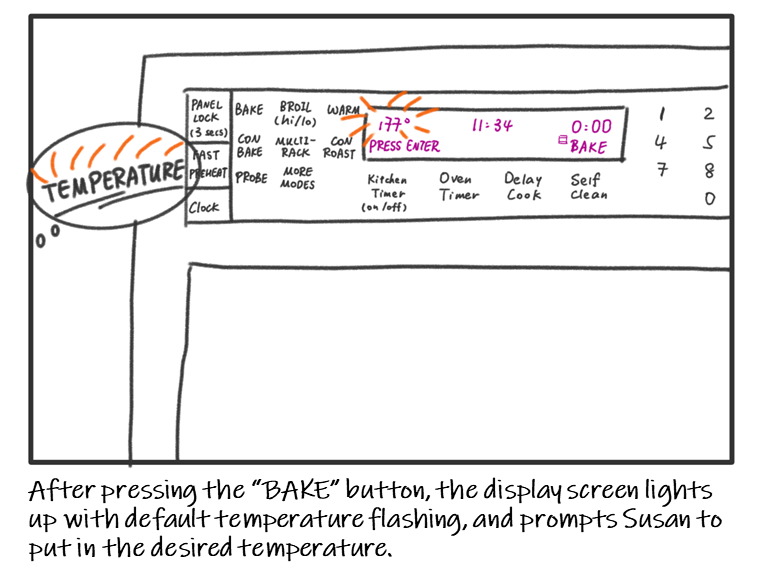
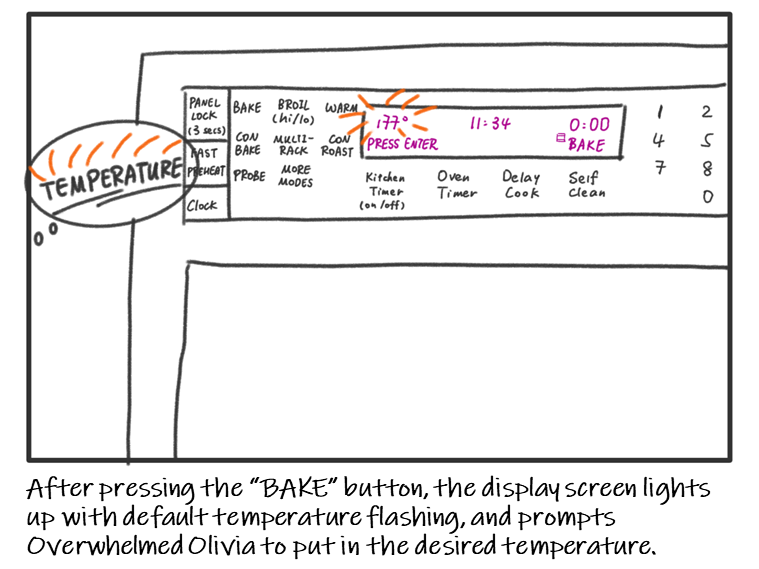
finalized

Changed region(s): [[0.0303, 0.0, 0.9697, 0.8067], [0.0303, 0.8366, 0.9697, 0.9859], [0.2121, 0.6274, 0.2424, 0.8067]]

diff --git a/home.html b/home.html
@@ -13,28 +13,31 @@
     <main>
     <h1 class="accent">Project Oven</h1>
     <h2 class="display-6">Personas and Storyboarding of an Authentic Oven</h2>
-    <p class="lead"> <strong>
+    <p class="lead intro"> <strong>
         Project Oven's main objective is to step into a user's shoes. Based on first-hand observations of real 
-        users interacting with an interface and interviews about their experiences, personas are then created 
+        users interacting with the interface of an oven and interviews about their experiences, personas are created 
         and storyboard is used to illustrate the user experience for one particular persona.</strong>
     </p>
 
     <div class="section">
       <div class="section-head">
-      <h2 style="text-align: center; white-space: pre-wrap;">Preparation</h2>
+      <h2 style="text-align: center; white-space: pre-wrap;">Overview</h2>
       <p>
-        The oven interface (i.e., the oven control panel) interacts with the users and allows them to cook food with their 
-        desired specifications such as cooking mode, temperature and time. Its key components include cooking modes 
-        touchpads which let users select different cooking modes; a display screen which visually prompts and shows 
-        users’ input of cooking specifications; numeric touchpads for users to put in numbers; basic feature buttons 
-        including panel lock, fast preheat, clock, oven light, settings and oven clear/off; and other features including 
-        kitchen timer, oven timer, delay cook and self-clean. Users need to conduct a series of actions on the control 
-        panel to input all the required cooking specifications and get the oven to work. 
-      </p>
+        Oven is one of the most commonly used home appliances. The oven interface (i.e., the control panel) interacts with the users and 
+        allows them to cook food with their desired specifications. Its key components include the following:</p>
+        <ol>
+          <li>cooking modes touchpads which let users select different cooking modes</li>
+          <li>a display screen which visually prompts and shows users’ input of cooking specifications</li>
+          <li>numeric touchpads for users to put in numbers</li>
+          <li>feature buttons such as oven timer, oven light, oven clear/off, etc.</li>
+        </ol> 
+      <p> Users need to conduct a series of actions on the control panel to input all the required cooking specifications and get the 
+        oven to work. The figure below shows the exact Bosch oven I have at home. </p>
       </div>
       
       <img class="oven" src="images/interface.JPG" alt="annotated oven interface">
-      <p><strong>To understand different users' experience with the oven interface, the following list of interview questions are to be asked:</strong></p> 
+      <p class="font-weight-bold">I then wonder: How does each user's experience differ? Is this oven designed for everyone? I decided to figure this out 
+        and asked three unique users the following questions:</p> 
       <ol>
         <li>What was your first impression of this interface?</li>
         <li>Which aspects of this interface are in line with your expectations? Which ones are not?</li>
@@ -57,7 +60,7 @@
     <div class="section">
       <div class="section-head">
         <h2 style="text-align: center; white-space: pre-wrap;">Observations</h2>
-        <p>The three users observed were Susan, Richard and Yvonne. In general, all three users took pauses at some point in using the 
+        <p>I approached Susan, Richard and Yvonne and observed how they interact with the oven interface. In general, all of them took pauses at some point in using the 
           interface. They all somewhat referred back to the display screen after completing an action and reacted to the beep sounds. Unlike Susan 
           who did not hesitate when starting the oven, Richard observed the entire interface and Yvonne looked at the different cooking modes. 
           However, Susan had to restart because she lost track of what she was trying to do and accidentally hit “Oven Clear/Off”. Among the three, 
@@ -67,7 +70,7 @@
       </div>
       <div class="row pt-3 row justify-content-center">
         <div class="col-12 col-lg-4 pb-3">
-          <div class="card">
+          <div class="card h-100">
             <div class="card-header">
               <h3>User #1: Susan</h3>
             </div>
@@ -75,17 +78,17 @@
               <div class="card-text">
               
                 <p><b>Description:</b> Susan is currently 52 years old and mother of the household. She is an experienced cook and 
-                  baker who prepares all three meals and snacks for her family almost every day. Susan represents the middle-aged or 
-                  senior members in households who interact with the oven frequently to prepare a variety of dishes. </p> 
+                  baker who prepares all three meals for her family almost every day. Susan represents the middle-aged or 
+                  senior members in households who interact with the oven frequently to prepare different dishes. </p> 
                 
                 <p><b>Observations:</b></p>
                   <ol>
-                    <li> Susan first pressed the cooking mode “Bake” without any hesitation. The display screen 
-                      then shows “177 degrees Celsius” flashing on the top left corner, “PREE ENTER” on the bottom 
-                      left corner and “BAKE” on the bottom right corner.</li>
+                    <li>Susan first pressed the cooking mode “Bake” without any hesitation. The display screen 
+                      then shows “177 degrees Celsius” flashing on the top left corner, “PRESS ENTER” on the bottom 
+                      left and “BAKE” on the bottom right.</li>
                     
-                    <li>She then hesitated and stared at the temperature. Her fingers moved in the air for a 
-                      few seconds and pressed “Bake” again and then “Oven Clear/Off”.</li>
+                    <li>She then hesitated and stared at the display. Her fingers moved in the air for a 
+                      few seconds and pressed “Bake” again, followed by “Oven Clear/Off”.</li>
                     
                     <li>Realizing that she had turned off the oven, Susan restarted by pressing “Bake” and paused to observe 
                       the display screen. She then put in “180 degree Celsius” and hit “Enter” to start preheating.</li>
@@ -108,22 +111,20 @@
               <div class="card-text">
               
                 <p><b>Description:</b> 
-                  Richard is currently 52 years old and father of the household. He seldom cooks or bakes and usually watches another person to use the oven. 
-                  Richard represents the middle-aged or senior members in households who interact with the oven only once in a while 
-                  and do not have much experience with the oven.</p> 
+                  Richard is currently 52 years old and father of the household. He seldom cooks or bakes and usually watches another person to use 
+                  the oven. Richard represents the middle-aged or senior members in households who interact with the oven only once in a while 
+                  and have little experience with it.</p> 
                 
                 <p><b>Observations:</b><p>
                   <ol>
                     <li>Richard observed the interface from the left to right for 15-20 seconds and then pressed the cooking mode “Bake”. 
-                      Once the display screen responded by showing a flashing default temperature of “177 degree Celsius”, Richard paused again 
-                      and looked at the display screen. </li>
+                      Once the display screen lit up, Richard paused again and looked at it closely. </li>
                     
-                    <li>Richard then put in “200 degree Celsius” and hit “Enter”. He paused again, skimming through 
-                      the display screen and recognized that the progress bar for “preheating” was shown on the display. </li>
+                    <li>Richard noticed the flashing temperature and put in “200 degree Celsius” and hit “Enter”. He paused again, skimming through 
+                      the display screen and recognized the the progress bar for “preheating”. </li>
                     
-                    <li>After preheating was done, Richard put the raw steak onto the racks and closed the oven door. He paused again and 
-                      searched on the interface. His finger first stopped on top of kitchen timer and then switched to oven timer, eventually 
-                      pressing the latter and putting in “50 minutes”, followed by “Enter”. </li>
+                    <li>After preheating was done, Richard put the steak onto the racks. He paused again and searched on the interface. His finger 
+                      first stopped on top of kitchen timer and then switched to oven timer, eventually pressing the latter and putting in “50 minutes” and “Enter”. </li>
                     
                     <li>Richard came back and hit "Oven Clear/Off" when the oven beeped to inform the completion of baking.</li>
                   </ol>
@@ -140,7 +141,7 @@
             <div class="card-body">
               <div class="card-text">
               
-                <p><b>Description:</b> Yvonne is currently an 18-year old high school student in her senior year. She usually uses the oven to 
+                <p><b>Description:</b> Yvonne is currently an 18-year old high school student. She usually uses the oven to 
                   bake sweet stuffs such as bread and cookies, and likes to experiment with different cooking modes. She represents young 
                   people who use the oven for fun in their spare time and are interested in trying new recipes. </p> 
                 
@@ -154,7 +155,7 @@
                     
                     <li>Yvonne put two trays of cookies onto two separate racks and pressed “Oven timer” without hesitation. She 
                       input “30 minutes” quickly, hit “Enter” and double checked carefully if the display screen was showing her inputs correctly. 
-                      Afterwards, she turned on the “Oven Light” to see the cookies in the oven. </li>
+                      She then turned on the “Oven Light” to check on her cookies. </li>
 
                     <li>Yvonne came back when the oven beeped to inform the completion of baking. She took out the baking trays and
                         hit "Oven Clear/Off".</li>
@@ -169,35 +170,35 @@
     <div class="section">
       <div class="section-head">
         <h2 style="text-align: center; white-space: pre-wrap;">Interview Responses</h2>
-        <p> All three users mention that the many different buttons on the interface are hard to understand 
-          and confused them initially to some extent. They all think that there is some to considerable amount of difficulty in 
-          learning how to use this interface. All of their user experience has been improved since their first time using the interface; 
+        <p> I then sat down and interviewed each user. Susan, Richard and Yvonne all mention that the different buttons on the interface are hard to understand 
+          and confused them initially. They all think that there is some to considerable amount of difficulty in 
+          learning how to use this interface. All of their experiences have been improved since their first time using the interface; 
           however, Richard particularly dislikes the current setup of the interface and thinks it is fairly ineffective, giving a rating of 5. 
-          Unlike Yvonne, Susan and Richard do not change the procedure by which they follow and only use one cooking mode on the interface. All of the users like 
-          some type of sound to help them evaluate whether they have done things correctly and would refer to the display screen in using the 
+          Unlike Yvonne, Susan and Richard do not change their step-by-step procedure and only have used one cooking mode. All of them like 
+          the beep sound which helps them evaluate whether they have done things correctly and would refer to the display screen in using the 
           interface. 
         </p>
       </div>
      
       <div class="row pt-3 row justify-content-center">
         <div class="col-12 col-lg-4 pb-3">
-          <div class="card">
+          <div class="card h-100">
             <div class="card-header">
               <h3>User #1: Susan</h3>
             </div>
             <div class="card-body">
               <div class="card-text">
               
-                <p>At first sight, Susan thinks that the interface is very “hard to understand” and shows “too many words”. 
-                  Though the functions on the interface align with her expectations, the impacts of her actions are “mostly different from 
-                  what she expects”. She did not get the oven to work and felt “confused” when using it for the first time and ended up 
-                  asking for someone else’s help. She feels more familiar with using this interface now but “sometimes needs to clear all previous 
-                  actions and start over”.</p> 
-                <p>Susan uses this oven 3-4 times per week but has only used the mode “Bake” regardless of the type of food she is cooking. 
-                  She follows the same procedure: “Bake” => set temperature => “enter” to start preheating; after preheating is done, 
-                  “oven timer” => set time” => “enter”. Susan likes the modern design and the beep sound at the press of a button but does 
-                  not like the “overwhelming number of buttons”. </p>
-                <p>Susan would like to see "different functions being separated more clearly and presented in a way that is easier to memorize". She suggests that “icons and figures can perhaps replace the words”. She rates her first-time experience as 2 and recent 
+                <p>At first sight, Susan thinks that the interface is very <strong>“hard to understand”</strong> and shows <strong>“too many words”</strong>. 
+                  Though the functions on the interface align with her expectations, the impacts of her actions are <strong>“mostly different from 
+                  what she expects”</strong>. She did not get the oven to work and felt <strong>“confused”</strong> when using it for the first time and ended up 
+                  asking for someone else’s help. She feels more familiar with using this interface now but <strong>“sometimes needs to start over”</strong>.</p> 
+                <p>Susan uses this oven 3-4 times per week but has only used the mode “Bake” regardless of the type of food. 
+                  She follows the same procedure: <strong>“Bake” => set temperature => “Enter” to start preheating; after preheating is done, 
+                  “Oven timer” => set time” => “Enter”</strong>. Susan likes the modern design and the beep sound at the press of a button but does 
+                  not like the <strong>“overwhelming number of buttons”</strong>. </p>
+                <p>Susan would like to see <strong>"different functions being separated more clearly and presented in a way that is easier to memorize"</strong>. 
+                  She suggests that <strong>“icons and figures can perhaps replace the words”</strong>. She rates her first-time experience as 2 and recent 
                   experiences as 7. She also rates the difficulty of learning the interface as 7 and the effectiveness of the interface as 6. She recalls the memory of feeling puzzled and 
                   ending up calling a friend when using the interface for the first time. </p>
               </div>
@@ -213,19 +214,19 @@
             <div class="card-body">
               <div class="card-text">
               
-                <p>Richard’s first impression of the interface is that it gives a sense of “high-end and advanced technology” but has “dazzling 
-                  functions” which are “hard to understand”. The presentation of the interface is different from his expectations; he expects 
+                <p>Richard’s first impression of the interface is that it gives a sense of <strong>“high-end and advanced technology”</strong> but has 
+                  <strong>“dazzling functions which are hard to understand”</strong>. The <strong>presentation of the interface is different from his expectations</strong>; he expects 
                   to see the main icons to be different food types (i.e., meat, vegetables, bread) with one extra button to “customize”. He further 
-                  explains that once you select a food type, the display screen shall then direct you to select one of the possible cooking modes specific to this type of food. </p>
+                  explains that once you select a food type, the display screen shall then direct you to select one of the possible cooking modes specific to this food type. </p>
                   
-                <p>Richard’s first interaction with the interface was entirely under the guidance of someone else and felt that “the required 
-                  number of steps were more than he expected”. He now uses the oven once every two or three weeks and only uses the “Bake” mode. 
-                  Richard considers the other cooking modes as “redundant” and is confused about why there are both “kitchen timer” and “over timer”.</p>
+                <p>Richard’s first time using the interface was entirely under the guidance of someone else and felt that <strong>“the required 
+                  number of steps were more than he expected”</strong>. He uses the oven once every two or three weeks and only uses “Bake”. 
+                  Richard considers the other cooking modes as <strong>“redundant”</strong> and is <strong>confused about why there are both “kitchen timer” and “over timer”</strong>.</p>
                 
-                <p>Richard appreciates the beep sound and the display screen which shows the immediate result of user’s actions but wants 
-                  to redesign and reorganize the icons entirely. He rates his first-time experience as 4 and recent experiences as 7. He 
+                <p>Richard appreciates the beep sound and the display screen which shows the immediate result of his actions but wants 
+                  to redesign and reorganize the icons. He rates his first-time experience as 4 and recent experiences as 7. He 
                   also rates the difficulty of learning the interface as 6 and the effectiveness of the interface as 5. Richard remembers 
-                  the experience of feeling confused by “kitchen timer” and “oven timer” and having to think about which one to choose. </p> 
+                 feeling confused by “kitchen timer” and “oven timer” and having to think about which one to choose. </p> 
               
               </div>
             </div>
@@ -240,16 +241,16 @@
             <div class="card-body">
               <div class="card-text">
               
-                <p>Yvonne’s first impression of the interface is that “the writings on the interface are very small and the different 
-                  buttons take some time to go through”. The presentation of the interface aligns with her expectations, especially the 
-                  various cooking modes, numeric touchpads, display screen and oven timer. When she used the interface for the first time, she read the 
-                  instructions manual beforehand and learned about the different features. She thought the manual "gave clear explanations” and was able 
+                <p>Yvonne’s first impression of the interface is that <strong>“the writings on the interface are very small and the different 
+                  buttons take some time to go through”</strong>. <strong>The presentation of the interface aligns with her expectations</strong>, especially the 
+                  various cooking modes, numeric touchpads, display screen and oven timer. Before using the interface for the first time, she read the 
+                  instructions manual and learned about the different features. She thought the manual "gave clear explanations” and was able 
                   to figure out the correct way to use the interface. </p>
-                <p>Yvonne thinks that she is now “confident about using any feature on the interface”. She uses the oven once per week 
+                <p>Yvonne thinks that she is now <strong>“confident about using any feature on the interface”</strong>. She uses the oven once per week 
                   on weekends usually for baking sweet treats and enjoys trying out new recipes with the oven. She particularly appreciates the display 
-                  screen which shows her “the effect of her actions” and the “multiple buttons that have different cooking modes to choose from”.</p> 
-                <p>Yvonne says that she “cannot think about anything she dislikes off the top of her head”, but she would like to hear 
-                  a “different beep sound when she presses something incorrectly vs. correctly”. She rates her first-time experience as 6 and 
+                  screen which shows her <strong>“the effect of her actions”</strong> and the <strong>“multiple cooking modes to choose from”</strong>.</p> 
+                <p>Yvonne says that she <strong>“cannot think about anything she dislikes off the top of her head”</strong>, but she would like to hear 
+                  a <strong>“different beep sound when she has done something incorrectly vs. correctly”</strong>. She rates her first-time experience as 6 and 
                   recent experiences as 9. She also rates the difficulty of learning the interface as 4 and the effectiveness of the interface 
                   as 8. Yvonne does not recall a special memory associated with this interface. </p>
               </div>
@@ -262,13 +263,13 @@
     <div class="section">
       <div class="section-head">
         <h2 style="text-align: center; white-space: pre-wrap;">Personas</h2>
-        <p> Based on the three users I observed and interviewed, I have created the following two personas:
-          "Overwhelmed Susan" and "Inquisitive Ivan".</p>
+        <p> Based on the three users I observed and interviewed, I have created two personas represented by the empathy maps:
+          "Overwhelmed Olivia" and "Inquisitive Ivan".</p>
           <ol>
-            <li> "Overwhelmed Susan" is a 52 year-old mother of the household who prepare all three meals for her family every day.
-                  She uses the oven 3 or 4 times per week but still feels overwhelmed when she messes up with the steps to set up 
-                  the oven. The many different buttons on the interface confuse her and she would lose track of what to do next. 
-                  "Overwhelmed Susan" represents the group of users (usually middle-aged or older) who sometimes need to cook with the oven under certain time 
+            <li> "Overwhelmed Olivia" is a 52 year-old mother of the household who prepare all three meals for her family every day.
+                  She uses the oven 3 or 4 times per week but still feels overwhelmed when she messes up with any of the steps to set up 
+                  the oven. The many different buttons on the interface confuse her and she would lose track of what to do. 
+                  "Overwhelmed Olivia" represents the group of users (usually middle-aged or older) who sometimes need to cook with the oven under certain time 
                   constraints and feel frustrated by their misoperation. 
             </li>
             <li> "Inquisitive Ivan" is an 18 year-old high school student who bakes and cooks occasionally in his spare time.
@@ -282,7 +283,7 @@
       </div>
       
       <div class="flex-container">
-        <div> <img class="personas" src="images/susan.JPG" alt="persona for overwhelmed susan"> </div>
+        <div> <img class="personas" src="images/olivia.JPG" alt="persona for overwhelmed olivia"> </div>
         <div> <img class="personas" src="images/ivan.JPG" alt="persona for inquisitive ivan"> </div>
       </div>
     </div>
@@ -291,7 +292,7 @@
     <div class="section">
       <div class="section-head">
         <h2 style="text-align: center; white-space: pre-wrap;">Storyboarding</h2>
-        <p style="text-align: center;"> The following storyboard is for "Overwhelmed Susan", showing the typical chaos she 
+        <p style="text-align: center;"> The following storyboard is for "Overwhelmed Olivia", showing the typical chaos she 
         has experienced when using the oven to prepare lunch for her family.</p>
       </div>
       <div class="flex-container">

diff --git a/index.css b/index.css
@@ -1,11 +1,23 @@
 /* Put your style information here! */
+/* piazzolla-regular - latin */
+@font-face {
+    font-family: 'Piazzolla';
+    font-style: normal;
+    font-weight: 400;
+    src: local('Piazzolla'),
+         url('./fonts/piazzolla-v2-latin-regular.woff2') format('woff2'), /* Chrome 26+, Opera 23+, Firefox 39+ */
+         url('./fonts/piazzolla-v2-latin-regular.woff') format('woff'); /* Chrome 6+, Firefox 3.6+, IE 9+, Safari 5.1+ */
+  }
+
 * {
     padding: 0;
     margin: 0;
     font-size: 1em;
 }
 
+
 main {
+    font-family: "Piazzolla", sans-serif;
     margin: 0 auto;
     padding: 30px 140px 0 140px;
     background-color: white;
@@ -30,20 +42,25 @@ p {
     display: block;
 }
 
+.intro {
+    color: darkslategray;
+}
+
 .section {
     margin-top: 50px;
     margin-bottom: 50px;
 }
 
 .section-head {
-    background-color: snow;
+    background-color: #fdf0f2;
+    padding: 3px;
 }
 
 .oven {
     display: block;
     margin-left: auto;
     margin-right: auto;
-    width: 80%
+    width: 90%
 }    
 
 .flex-container{
@@ -59,7 +76,7 @@ p {
 
 .personas {
     width: 100%;
-    max-width: 600px;
+    max-width: 900px;
     height: auto;
     margin-bottom: 10px;
     padding: 10px;
